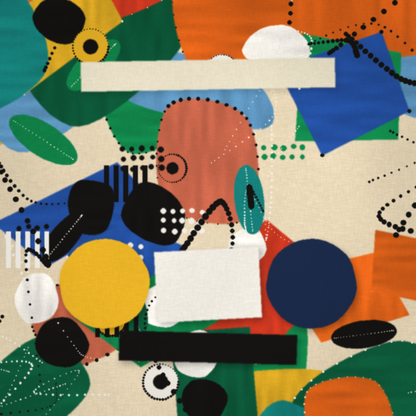
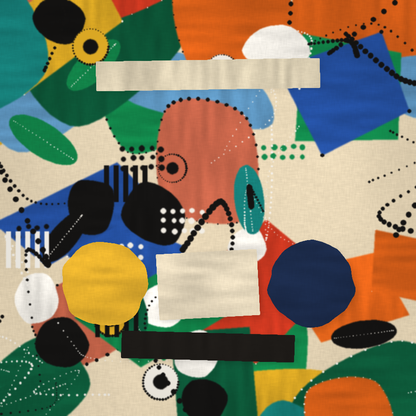
Esferas: Collage con datos camuflados y batería en rayitas
- Batería como cinco rayitas al final de la cinta de la fecha (motivo del collage)
- Piezas de datos pintadas con borde irregular y sombra suave; tira de pasos en crema
- Texto en marrón tinta y algo más pequeño para integrarse en la obra

Claude-Session: https://claude.ai/code/session_0148qsZtKrfrxGzekTrvD4BA

diff --git a/Esferas/store/generador/render.html b/Esferas/store/generador/render.html
@@ -149,29 +149,27 @@ function reticula(d){
 }
 
 // =================== COLLAGE ===================
+// Batería camuflada: cinco rayitas (el motivo de rayas del collage); las oscuras son la carga.
+function batteryBars(x0, y0, level, ink, empty){
+  const n = Math.round(level / 20);
+  for (let i = 0; i < 5; i++) rect(x0 + P(i * 6), y0, Math.max(2, P(3.2)), P(17), i < n ? ink : empty);
+}
 function collage(d){
   art(['collage', 'collage2', 'collage3'][d.variant || 0]);                             // un collage distinto cada día
-  const ink = '#1C1A17';
-  // cinta de la fecha: fecha · batería
-  const dw = textW(d.date, F.label), bw2 = P(14) + P(5) + textW(d.battery + '%', F.small), gapD = P(16);
-  const dx0 = P(195) - (dw + gapD + bw2) / 2;
-  text(dx0, P(64), d.date, F.label, ink, 'l');
-  row(dx0 + dw + gapD + bw2 / 2, P(64), [['battery', d.battery + '%']], '#5A4E40', '#5A4E40', '#EFE6CC', 14, F.small);
+  const ink = '#2A2119', soft = '#5C4D3C';
+  text(P(172), P(64), d.date, F.label, ink);                                           // cinta: fecha
+  batteryBars(P(266), P(62), d.battery, ink, '#C9BB9C');                               // …y batería camuflada
   glyphTime(P(195), P(104), d.time, 'co', -2, true);                                   // papeles recortados que saltan
-  // círculo azafrán: tiempo
-  row(P(98), P(250), [[d.cond, d.temp + '°']], ink, ink, '#E8B227', 22);
-  row(P(98), P(282), [['drop', d.precip + '%']], '#4A3810', '#4A3810', '#E8B227', 14, F.small);
-  // tira blanca: pasos y su progreso
-  icon('steps', P(186), P(240), P(18), '#5A4E40');
-  text(P(195), P(260), fmtSteps(d.steps), F.data, ink);
-  const bx = P(160), bw = P(70), by = P(288), f = Math.min(1, d.steps / d.goal);
-  rect(bx, by, bw, Math.max(1, P(2.5)), '#D9CEB8'); rect(bx, by, bw * f, Math.max(1, P(2.5)), '#D23A22');
-  // círculo azul noche: luna
-  const mp = IMG['moon' + d.moonIdx];
-  dc.drawImage(mp, P(292) - mp.width / 2, P(256) - mp.height / 2);
-  text(P(292), P(280), Math.round(d.moonIllum * 100) + '%', F.small, '#EDE6D6');
-  // cinta negra: amanecer y atardecer
-  row(P(195), P(320), [['sunrise', d.sunrise], ['sunset', d.sunset]], '#F3EEE4', '#E8B227', '#151413', 14, F.small);
+  row(P(98), P(252), [[d.cond, d.temp + '°']], ink, ink, '#E2AE2E', 18, F.small);         // mancha azafrán: tiempo
+  row(P(98), P(278), [['drop', d.precip + '%']], '#5A4216', '#5A4216', '#E2AE2E', 12, F.small);
+  icon('steps', P(187), P(242), P(16), soft);                                          // tira: pasos y progreso
+  text(P(195), P(262), fmtSteps(d.steps), F.small, ink);
+  const bx = P(165), bw = P(60), by = P(285), f = Math.min(1, d.steps / d.goal);
+  rect(bx, by, bw, Math.max(1, P(2)), '#D3C4A4'); rect(bx, by, bw * f, Math.max(1, P(2)), '#C0392B');
+  const mp = IMG['moon' + d.moonIdx];                                                  // mancha azul noche: luna
+  dc.drawImage(mp, P(292) - mp.width / 2, P(258) - mp.height / 2);
+  text(P(292), P(280), Math.round(d.moonIllum * 100) + '%', F.mini, '#D9D1BF');
+  row(P(195), P(319), [['sunrise', d.sunrise], ['sunset', d.sunset]], '#E6DCC8', '#D9A22C', '#1E1B18', 12, F.small);  // cinta: sol
 }
 
 // =================== CIELO PINTADO ===================

diff --git a/Esferas/tools/paint.py b/Esferas/tools/paint.py
@@ -285,11 +285,11 @@ LABEL = (56, 88, 334, 294)
 
 
 COLLAGE_HOLDERS = {   # piezas de papel para los datos (diseño a 390): tipo, geometría, color, giro
-    "temp": ("circle", 98, 266, 42, "#E8B227", 0),
-    "moon": ("circle", 292, 266, 42, "#1C2B4A", 0),
-    "steps": ("rect", 146, 234, 244, 300, "#F3EEE4", -3.0),
-    "sun": ("rect", 112, 312, 278, 340, "#151413", 1.5),
-    "date": ("rect", 76, 56, 314, 84, "#EFE6CC", -1.0),
+    "temp": ("circle", 98, 266, 40, "#E2AE2E", 0),
+    "moon": ("circle", 292, 266, 40, "#1C2B4A", 0),
+    "steps": ("rect", 148, 236, 242, 298, "#EADCC0", -3.0),
+    "sun": ("rect", 114, 312, 276, 338, "#1E1B18", 1.5),
+    "date": ("rect", 90, 56, 300, 84, "#E6D9BC", -1.0),
 }
 
 
@@ -300,23 +300,24 @@ def paper_piece(img, kind, geom, color, seed, shadow=0.32, angle=0.0):
         corners = [(x0, y0), (x1, y0), (x1, y1), (x0, y1)]
         pts = [(cx + (x - cx) * np.cos(a) - (y - cy) * np.sin(a), cy + (x - cx) * np.sin(a) + (y - cy) * np.cos(a))
                for x, y in corners]
-        sh = poly_mask([(x + 2, y + 3) for x, y in pts], blur=3)
+        sh = poly_mask([(x + 1.5, y + 2) for x, y in pts], blur=3)
         m = poly_mask(pts, blur=0.6)
-        img = img * (1 - shadow * sh)[..., None]
-        paper = mottle(linen(solid(color), 0.05, seed + 2), 0.05, seed + 3, 3)
-        return over(img, paper, m)
+        m = smooth(0.35, 0.65, m + 0.25 * (fbm(14, seed + 5, 3) - 0.5))          # borde pintado irregular
+        img = img * (1 - shadow * 0.5 * sh)[..., None]
+        return over(img, painted_fill(color, seed + 2), m)
     if kind == "circle":
         cx, cy, r = geom
-        pts = [(cx + np.cos(q) * r * (1 + 0.015 * np.sin(q * 7 + seed)), cy + np.sin(q) * r) for q in np.linspace(0, 2 * np.pi, 72)[:-1]]
+        pts = [(cx + np.cos(q) * r * (1 + 0.035 * np.sin(q * 5 + seed) + 0.02 * np.sin(q * 11)), cy + np.sin(q) * r * (1 + 0.03 * np.cos(q * 4 + seed)))
+               for q in np.linspace(0, 2 * np.pi, 72)[:-1]]
         sh = poly_mask([(x + 2, y + 3) for x, y in pts], blur=3)
         m = poly_mask(pts, blur=0.5)
     else:
         x0, y0, x1, y1 = geom
         sh = rect_mask(x0 + 2, y0 + 3, x1 + 2, y1 + 3, seed, rough=2.5, soft=3)
         m = rect_mask(x0, y0, x1, y1, seed + 1, rough=2.2, soft=0.7)
-    img = img * (1 - shadow * sh)[..., None]
-    paper = mottle(linen(solid(color), 0.05, seed + 2), 0.05, seed + 3, 3)
-    return over(img, paper, m)
+    m = smooth(0.35, 0.65, m + 0.25 * (fbm(14, seed + 5, 3) - 0.5))
+    img = img * (1 - shadow * 0.5 * sh)[..., None]
+    return over(img, painted_fill(color, seed + 2), m)
 
 
 def leaf(img, x, y, size, angle, color, seed):
